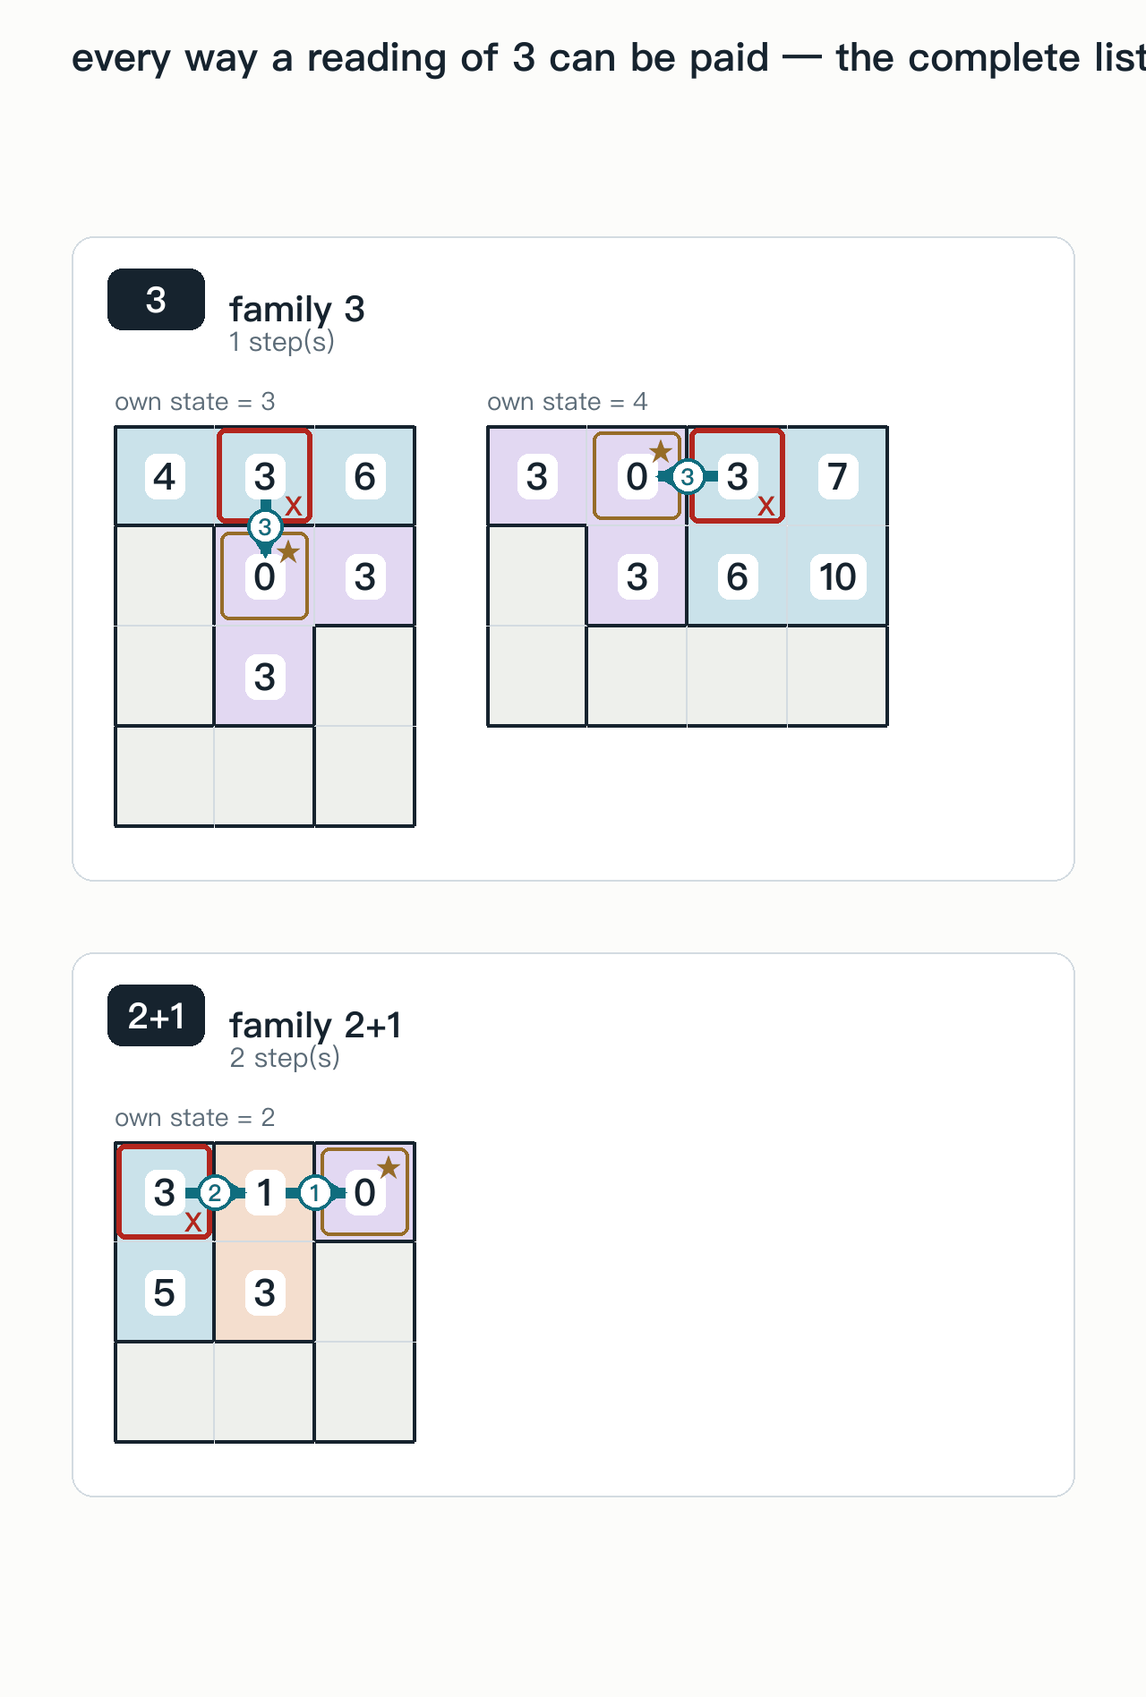
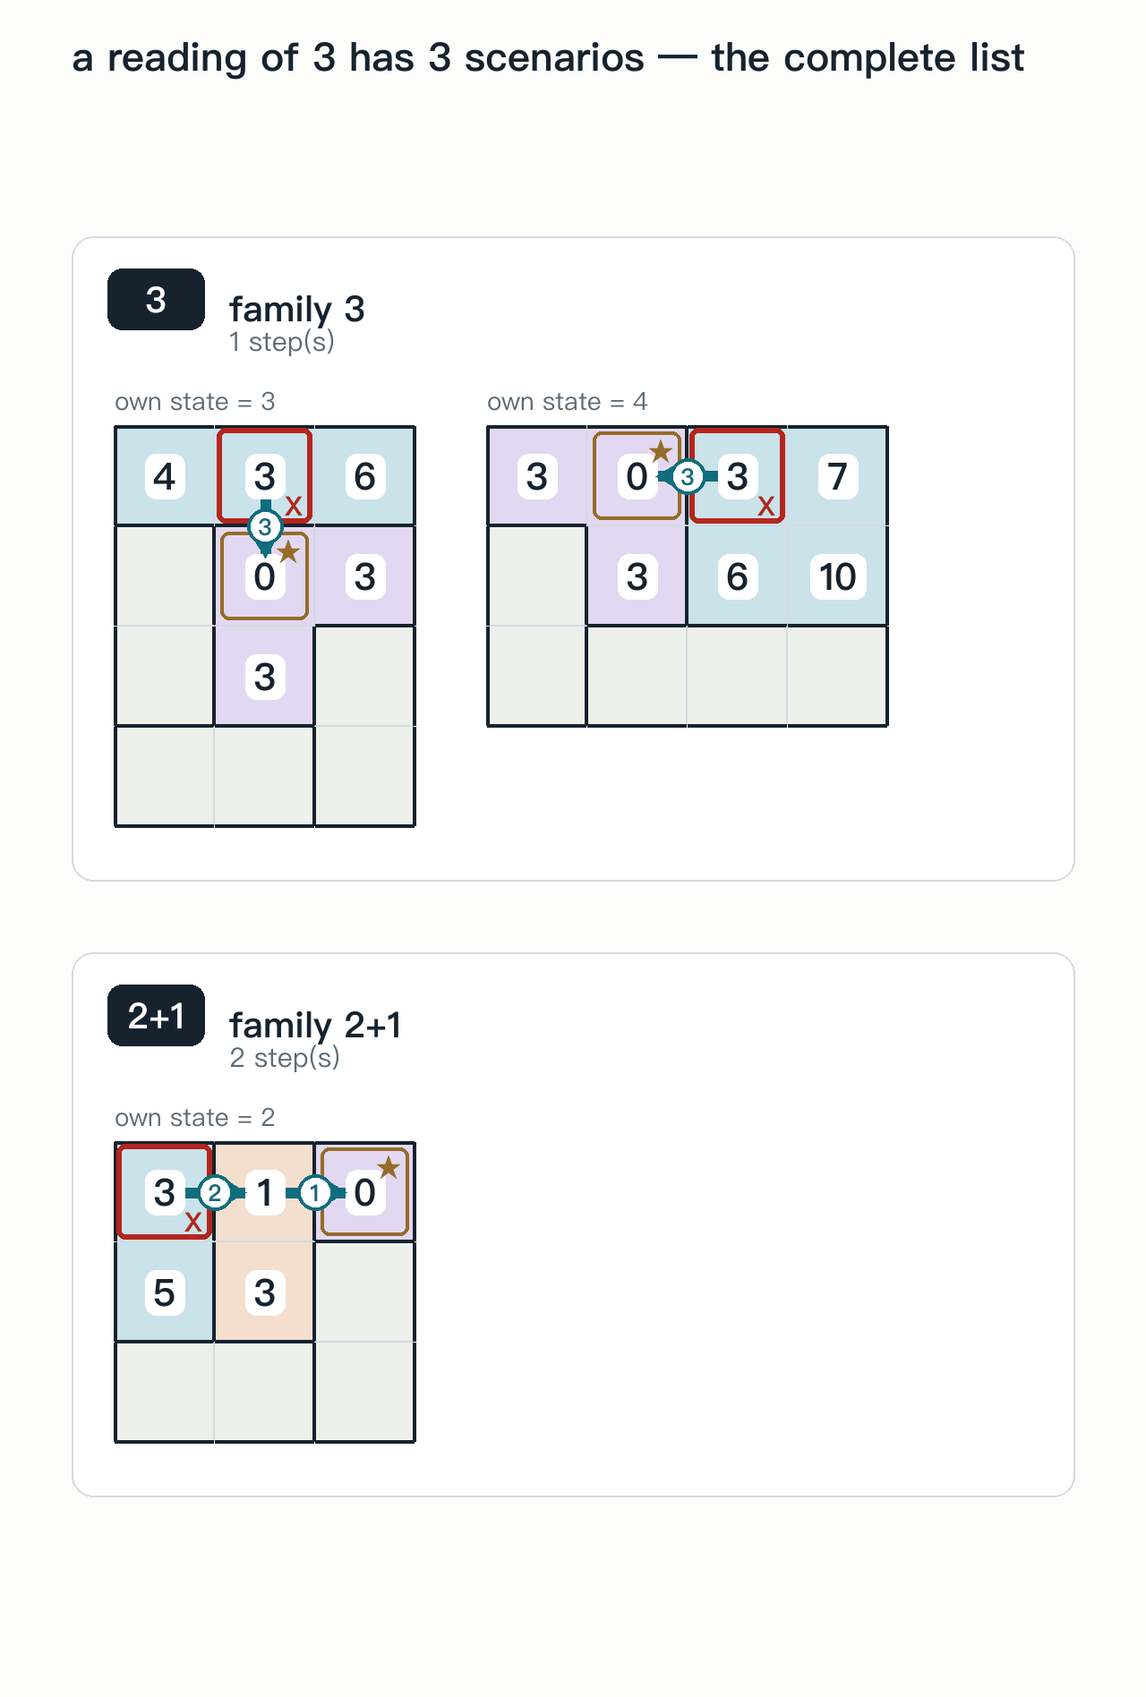
page: the number of scenarios, so a reader can hold it in their head
How many scenarios a reading has is the thing worth remembering, so it is now
on the page (a count on every card) and on the picture itself ("a reading of 4
has 3 scenarios -- the complete list").

Changed region(s): [[0.0625, 0.0311, 1.0, 0.0622]]

diff --git a/its-a-metric-too/lemma.html b/its-a-metric-too/lemma.html
@@ -50,6 +50,7 @@ a { color: var(--accent); }
 .lemma .lp { font-size: 0.74rem; color: var(--muted); }
 .lemma .lp.pin { color: var(--good); }
 .lemma .lp.ok { color: var(--accent); font-weight: 600; }
+.lemma .lp.n { color: var(--ink); font-weight: 600; }
 .lemma img { max-width: 100%; height: auto; width: auto; display: block;
   border: 1px solid var(--line); border-radius: 3px; background: #fcfcf9; }
 .lemma a.fig { display: inline-block; max-width: 100%; line-height: 0; }
@@ -78,55 +79,55 @@ a { color: var(--accent); }
 
   <section class="lemmas">
     <figure class="lemma">
-      <figcaption><b data-i18n="lemmaWord">Reading</b> 0 <span class="lp" data-i18n="lemmaFree">does not pin the square's own state size</span> <span class="lp ok" data-i18n="lemmaComplete">complete</span></figcaption>
+      <figcaption><b data-i18n="lemmaWord">Reading</b> 0 <span class="lp n" data-i18n="lemmaScen0">3 scenarios</span> <span class="lp" data-i18n="lemmaFree">does not pin the square's own state size</span> <span class="lp ok" data-i18n="lemmaComplete">complete</span></figcaption>
       <a class="fig" data-i18n-href="reading-scenarios/reading-0.en.png" href="reading-scenarios/reading-0.en.png" target="_blank" rel="noopener"><img src="reading-scenarios/reading-0.en.png" alt="Reading 0: the square that reads 0, and the states it can sit in" data-i18n-src="figSrc0" data-i18n-alt="figAlt0" loading="lazy"></a>
       <p class="lnote" data-i18n="lemmaRead0">The square IS a capitol, and its state's size is odd (1, 3, 5, …) — the lower bound is 1, not 3.</p>
       <p class="lfam"><span data-i18n="lemmaFamsNone">the only case</span></p>
     </figure>
     <figure class="lemma">
-      <figcaption><b data-i18n="lemmaWord">Reading</b> 1 <span class="lp" data-i18n="lemmaFree">does not pin the square's own state size</span> <span class="lp ok" data-i18n="lemmaComplete">complete</span></figcaption>
+      <figcaption><b data-i18n="lemmaWord">Reading</b> 1 <span class="lp n" data-i18n="lemmaScen1">2 scenarios</span> <span class="lp" data-i18n="lemmaFree">does not pin the square's own state size</span> <span class="lp ok" data-i18n="lemmaComplete">complete</span></figcaption>
       <a class="fig" data-i18n-href="reading-scenarios/reading-1.en.png" href="reading-scenarios/reading-1.en.png" target="_blank" rel="noopener"><img src="reading-scenarios/reading-1.en.png" alt="Reading 1: a step of cost 1 into a 1x1 state" data-i18n-src="figSrc1" data-i18n-alt="figAlt1" loading="lazy"></a>
       <p class="lnote" data-i18n="lemmaRead1">The square touches a 1×1 state and is not a capitol itself. An equivalence, not just an implication.</p>
       <p class="lfam"><span data-i18n="lemmaFamsWord">all the ways it can be paid</span>: 1</p>
     </figure>
     <figure class="lemma">
-      <figcaption><b data-i18n="lemmaWord">Reading</b> 2 <span class="lp pin" data-i18n="lemmaPin">pins the square's own state size</span> <span class="lp ok" data-i18n="lemmaComplete">complete</span></figcaption>
+      <figcaption><b data-i18n="lemmaWord">Reading</b> 2 <span class="lp n" data-i18n="lemmaScen2">1 scenario</span> <span class="lp pin" data-i18n="lemmaPin">pins the square's own state size</span> <span class="lp ok" data-i18n="lemmaComplete">complete</span></figcaption>
       <a class="fig" data-i18n-href="reading-scenarios/reading-2.en.png" href="reading-scenarios/reading-2.en.png" target="_blank" rel="noopener"><img src="reading-scenarios/reading-2.en.png" alt="Reading 2: a 2-cell state next to a capitol" data-i18n-src="figSrc2" data-i18n-alt="figAlt2" loading="lazy"></a>
       <p class="lnote" data-i18n="lemmaRead2">The square is in a 2-cell state, next to a capitol of odd size ≥ 3. This is the only reading that pins the square's own state.</p>
       <p class="lfam"><span data-i18n="lemmaFamsWord">all the ways it can be paid</span>: 2</p>
     </figure>
     <figure class="lemma">
-      <figcaption><b data-i18n="lemmaWord">Reading</b> 3 <span class="lp" data-i18n="lemmaFree">does not pin the square's own state size</span> <span class="lp ok" data-i18n="lemmaComplete">complete</span></figcaption>
+      <figcaption><b data-i18n="lemmaWord">Reading</b> 3 <span class="lp n" data-i18n="lemmaScen3">3 scenarios</span> <span class="lp" data-i18n="lemmaFree">does not pin the square's own state size</span> <span class="lp ok" data-i18n="lemmaComplete">complete</span></figcaption>
       <a class="fig" data-i18n-href="reading-scenarios/reading-3.en.png" href="reading-scenarios/reading-3.en.png" target="_blank" rel="noopener"><img src="reading-scenarios/reading-3.en.png" alt="Reading 3: one step of cost 3, and two steps of 2 then 1" data-i18n-src="figSrc3" data-i18n-alt="figAlt3" loading="lazy"></a>
       <p class="lnote" data-i18n="lemmaRead3">Two families: one step of cost 3, or 2+1 into a 1×1. The own state is not pinned, so "reading 3 ⇒ a 3-cell state" is false.</p>
       <p class="lfam"><span data-i18n="lemmaFamsWord">all the ways it can be paid</span>: 2+1 · 3</p>
     </figure>
     <figure class="lemma">
-      <figcaption><b data-i18n="lemmaWord">Reading</b> 4 <span class="lp" data-i18n="lemmaFree">does not pin the square's own state size</span> <span class="lp ok" data-i18n="lemmaComplete">complete</span></figcaption>
+      <figcaption><b data-i18n="lemmaWord">Reading</b> 4 <span class="lp n" data-i18n="lemmaScen4">3 scenarios</span> <span class="lp" data-i18n="lemmaFree">does not pin the square's own state size</span> <span class="lp ok" data-i18n="lemmaComplete">complete</span></figcaption>
       <a class="fig" data-i18n-href="reading-scenarios/reading-4.en.png" href="reading-scenarios/reading-4.en.png" target="_blank" rel="noopener"><img src="reading-scenarios/reading-4.en.png" alt="Reading 4: the three ways a reading of 4 can be paid" data-i18n-src="figSrc4" data-i18n-alt="figAlt4" loading="lazy"></a>
       <p class="lnote" data-i18n="lemmaRead4">Three families: 4, 3+1, 2+2. Only the one-step family pins the own state, at 4.</p>
       <p class="lfam"><span data-i18n="lemmaFamsWord">all the ways it can be paid</span>: 2+2 · 3+1 · 4</p>
     </figure>
     <figure class="lemma">
-      <figcaption><b data-i18n="lemmaWord">Reading</b> 5 <span class="lp" data-i18n="lemmaFree">does not pin the square's own state size</span> <span class="lp ok" data-i18n="lemmaComplete">complete</span></figcaption>
+      <figcaption><b data-i18n="lemmaWord">Reading</b> 5 <span class="lp n" data-i18n="lemmaScen5">4 scenarios</span> <span class="lp" data-i18n="lemmaFree">does not pin the square's own state size</span> <span class="lp ok" data-i18n="lemmaComplete">complete</span></figcaption>
       <a class="fig" data-i18n-href="reading-scenarios/reading-5.en.png" href="reading-scenarios/reading-5.en.png" target="_blank" rel="noopener"><img src="reading-scenarios/reading-5.en.png" alt="Reading 5: the four ways a reading of 5 can be paid" data-i18n-src="figSrc5" data-i18n-alt="figAlt5" loading="lazy"></a>
       <p class="lnote" data-i18n="lemmaRead5">Four families: 5, 4+1, 2+3, 2+2+1. The own state is not pinned.</p>
       <p class="lfam"><span data-i18n="lemmaFamsWord">all the ways it can be paid</span>: 2+2+1 · 2+3 · 4+1 · 5</p>
     </figure>
     <figure class="lemma">
-      <figcaption><b data-i18n="lemmaWord">Reading</b> 6 <span class="lp" data-i18n="lemmaFree">does not pin the square's own state size</span> <span class="lp ok" data-i18n="lemmaComplete">complete</span></figcaption>
+      <figcaption><b data-i18n="lemmaWord">Reading</b> 6 <span class="lp n" data-i18n="lemmaScen6">7 scenarios</span> <span class="lp" data-i18n="lemmaFree">does not pin the square's own state size</span> <span class="lp ok" data-i18n="lemmaComplete">complete</span></figcaption>
       <a class="fig" data-i18n-href="reading-scenarios/reading-6.en.png" href="reading-scenarios/reading-6.en.png" target="_blank" rel="noopener"><img src="reading-scenarios/reading-6.en.png" alt="Reading 6: the seven ways a reading of 6 can be paid" data-i18n-src="figSrc6" data-i18n-alt="figAlt6" loading="lazy"></a>
       <p class="lnote" data-i18n="lemmaRead6">Seven families. The own state is not pinned.</p>
       <p class="lfam"><span data-i18n="lemmaFamsWord">all the ways it can be paid</span>: 2+2+2 · 2+3+1 · 2+4 · 3+2+1 · 3+3 · 5+1 · 6</p>
     </figure>
     <figure class="lemma">
-      <figcaption><b data-i18n="lemmaWord">Reading</b> 7 <span class="lp" data-i18n="lemmaFree">does not pin the square's own state size</span> <span class="lp ok" data-i18n="lemmaComplete">complete</span></figcaption>
+      <figcaption><b data-i18n="lemmaWord">Reading</b> 7 <span class="lp n" data-i18n="lemmaScen7">11 scenarios</span> <span class="lp" data-i18n="lemmaFree">does not pin the square's own state size</span> <span class="lp ok" data-i18n="lemmaComplete">complete</span></figcaption>
       <a class="fig" data-i18n-href="reading-scenarios/reading-7.en.png" href="reading-scenarios/reading-7.en.png" target="_blank" rel="noopener"><img src="reading-scenarios/reading-7.en.png" alt="Reading 7: the eleven ways a reading of 7 can be paid" data-i18n-src="figSrc7" data-i18n-alt="figAlt7" loading="lazy"></a>
       <p class="lnote" data-i18n="lemmaRead7">Eleven families. The own state is not pinned.</p>
       <p class="lfam"><span data-i18n="lemmaFamsWord">all the ways it can be paid</span>: 2+2+2+1 · 2+2+3 · 2+4+1 · 2+5 · 3+2+2 · 3+3+1 · 3+4 · 4+2+1 · 4+3 · 6+1 · 7</p>
     </figure>
     <figure class="lemma">
-      <figcaption><b data-i18n="lemmaWord">Reading</b> 8 <span class="lp" data-i18n="lemmaFree">does not pin the square's own state size</span> <span class="lp ok" data-i18n="lemmaComplete">complete</span></figcaption>
+      <figcaption><b data-i18n="lemmaWord">Reading</b> 8 <span class="lp n" data-i18n="lemmaScen8">17 scenarios</span> <span class="lp" data-i18n="lemmaFree">does not pin the square's own state size</span> <span class="lp ok" data-i18n="lemmaComplete">complete</span></figcaption>
       <a class="fig" data-i18n-href="reading-scenarios/reading-8.en.png" href="reading-scenarios/reading-8.en.png" target="_blank" rel="noopener"><img src="reading-scenarios/reading-8.en.png" alt="Reading 8: the seventeen ways a reading of 8 can be paid" data-i18n-src="figSrc8" data-i18n-alt="figAlt8" loading="lazy"></a>
       <p class="lnote" data-i18n="lemmaRead8">Seventeen families. The own state is not pinned.</p>
       <p class="lfam"><span data-i18n="lemmaFamsWord">all the ways it can be paid</span>: 2+2+2+2 · 2+2+3+1 · 2+2+4 · 2+3+2+1 · 2+3+3 · 2+5+1 · 2+6 · 3+2+2+1 · 3+4+1 · 3+5 · 4+2+2 · 4+3+1 · 4+4 · 5+2+1 · 5+3 · 7+1 · 8</p>
@@ -368,6 +369,15 @@ const I18N = {
   lemmaWord: 'Reading',
   lemmaFamsWord: 'all the ways it can be paid',
   lemmaComplete: 'complete',
+  lemmaScen0: '3 scenarios',
+  lemmaScen1: '2 scenarios',
+  lemmaScen2: '1 scenario',
+  lemmaScen3: '3 scenarios',
+  lemmaScen4: '3 scenarios',
+  lemmaScen5: '4 scenarios',
+  lemmaScen6: '7 scenarios',
+  lemmaScen7: '11 scenarios',
+  lemmaScen8: '17 scenarios',
   lemmaFamsNone: 'the only case',
   lemmaPin: 'pins the square\'s own state size',
   lemmaFree: 'does not pin the square\'s own state size',

diff --git a/its-a-metric-too/lemma.zh.html b/its-a-metric-too/lemma.zh.html
@@ -50,6 +50,7 @@ a { color: var(--accent); }
 .lemma .lp { font-size: 0.74rem; color: var(--muted); }
 .lemma .lp.pin { color: var(--good); }
 .lemma .lp.ok { color: var(--accent); font-weight: 600; }
+.lemma .lp.n { color: var(--ink); font-weight: 600; }
 .lemma img { max-width: 100%; height: auto; width: auto; display: block;
   border: 1px solid var(--line); border-radius: 3px; background: #fcfcf9; }
 .lemma a.fig { display: inline-block; max-width: 100%; line-height: 0; }
@@ -78,55 +79,55 @@ a { color: var(--accent); }
 
   <section class="lemmas">
     <figure class="lemma">
-      <figcaption><b data-i18n="lemmaWord">读数</b> 0 <span class="lp" data-i18n="lemmaFree">不钉死这一格的州大小</span> <span class="lp ok" data-i18n="lemmaComplete">完整</span></figcaption>
+      <figcaption><b data-i18n="lemmaWord">读数</b> 0 <span class="lp n" data-i18n="lemmaScen0">3 种情形</span> <span class="lp" data-i18n="lemmaFree">不钉死这一格的州大小</span> <span class="lp ok" data-i18n="lemmaComplete">完整</span></figcaption>
       <a class="fig" data-i18n-href="reading-scenarios/reading-0.zh.png" href="reading-scenarios/reading-0.zh.png" target="_blank" rel="noopener"><img src="reading-scenarios/reading-0.zh.png" alt="读数 0：读 0 的那一格，以及它可能所在的州" data-i18n-src="figSrc0" data-i18n-alt="figAlt0" loading="lazy"></a>
       <p class="lnote" data-i18n="lemmaRead0">这一格就是首府，而且所在州的大小是奇数（1、3、5……）—— 下界是 1，不是 3。</p>
       <p class="lfam"><span data-i18n="lemmaFamsNone">只有这一种情形</span></p>
     </figure>
     <figure class="lemma">
-      <figcaption><b data-i18n="lemmaWord">读数</b> 1 <span class="lp" data-i18n="lemmaFree">不钉死这一格的州大小</span> <span class="lp ok" data-i18n="lemmaComplete">完整</span></figcaption>
+      <figcaption><b data-i18n="lemmaWord">读数</b> 1 <span class="lp n" data-i18n="lemmaScen1">2 种情形</span> <span class="lp" data-i18n="lemmaFree">不钉死这一格的州大小</span> <span class="lp ok" data-i18n="lemmaComplete">完整</span></figcaption>
       <a class="fig" data-i18n-href="reading-scenarios/reading-1.zh.png" href="reading-scenarios/reading-1.zh.png" target="_blank" rel="noopener"><img src="reading-scenarios/reading-1.zh.png" alt="读数 1：一步代价 1 进 1×1 州" data-i18n-src="figSrc1" data-i18n-alt="figAlt1" loading="lazy"></a>
       <p class="lnote" data-i18n="lemmaRead1">这一格挨着一个 1×1 州，且自己不是首府。是等价替换，不只是单向。</p>
       <p class="lfam"><span data-i18n="lemmaFamsWord">全部的付法</span>: 1</p>
     </figure>
     <figure class="lemma">
-      <figcaption><b data-i18n="lemmaWord">读数</b> 2 <span class="lp pin" data-i18n="lemmaPin">钉死这一格的州大小</span> <span class="lp ok" data-i18n="lemmaComplete">完整</span></figcaption>
+      <figcaption><b data-i18n="lemmaWord">读数</b> 2 <span class="lp n" data-i18n="lemmaScen2">1 种情形</span> <span class="lp pin" data-i18n="lemmaPin">钉死这一格的州大小</span> <span class="lp ok" data-i18n="lemmaComplete">完整</span></figcaption>
       <a class="fig" data-i18n-href="reading-scenarios/reading-2.zh.png" href="reading-scenarios/reading-2.zh.png" target="_blank" rel="noopener"><img src="reading-scenarios/reading-2.zh.png" alt="读数 2：挨着首府的 2 格州" data-i18n-src="figSrc2" data-i18n-alt="figAlt2" loading="lazy"></a>
       <p class="lnote" data-i18n="lemmaRead2">这一格在 2 格州里，且紧挨着一个奇数 ≥ 3 的首府。这是唯一钉死这一格州大小的读数。</p>
       <p class="lfam"><span data-i18n="lemmaFamsWord">全部的付法</span>: 2</p>
     </figure>
     <figure class="lemma">
-      <figcaption><b data-i18n="lemmaWord">读数</b> 3 <span class="lp" data-i18n="lemmaFree">不钉死这一格的州大小</span> <span class="lp ok" data-i18n="lemmaComplete">完整</span></figcaption>
+      <figcaption><b data-i18n="lemmaWord">读数</b> 3 <span class="lp n" data-i18n="lemmaScen3">3 种情形</span> <span class="lp" data-i18n="lemmaFree">不钉死这一格的州大小</span> <span class="lp ok" data-i18n="lemmaComplete">完整</span></figcaption>
       <a class="fig" data-i18n-href="reading-scenarios/reading-3.zh.png" href="reading-scenarios/reading-3.zh.png" target="_blank" rel="noopener"><img src="reading-scenarios/reading-3.zh.png" alt="读数 3：一步付 3，以及两步 2 再 1" data-i18n-src="figSrc3" data-i18n-alt="figAlt3" loading="lazy"></a>
       <p class="lnote" data-i18n="lemmaRead3">两族：一步付 3，或 2+1 进 1×1。州大小不钉死，所以「读 3 就是 3 格州」是错的。</p>
       <p class="lfam"><span data-i18n="lemmaFamsWord">全部的付法</span>: 2+1 · 3</p>
     </figure>
     <figure class="lemma">
-      <figcaption><b data-i18n="lemmaWord">读数</b> 4 <span class="lp" data-i18n="lemmaFree">不钉死这一格的州大小</span> <span class="lp ok" data-i18n="lemmaComplete">完整</span></figcaption>
+      <figcaption><b data-i18n="lemmaWord">读数</b> 4 <span class="lp n" data-i18n="lemmaScen4">3 种情形</span> <span class="lp" data-i18n="lemmaFree">不钉死这一格的州大小</span> <span class="lp ok" data-i18n="lemmaComplete">完整</span></figcaption>
       <a class="fig" data-i18n-href="reading-scenarios/reading-4.zh.png" href="reading-scenarios/reading-4.zh.png" target="_blank" rel="noopener"><img src="reading-scenarios/reading-4.zh.png" alt="读数 4：读 4 的三种付法" data-i18n-src="figSrc4" data-i18n-alt="figAlt4" loading="lazy"></a>
       <p class="lnote" data-i18n="lemmaRead4">三族：4、3+1、2+2。只有一步那一族钉死州大小，钉在 4。</p>
       <p class="lfam"><span data-i18n="lemmaFamsWord">全部的付法</span>: 2+2 · 3+1 · 4</p>
     </figure>
     <figure class="lemma">
-      <figcaption><b data-i18n="lemmaWord">读数</b> 5 <span class="lp" data-i18n="lemmaFree">不钉死这一格的州大小</span> <span class="lp ok" data-i18n="lemmaComplete">完整</span></figcaption>
+      <figcaption><b data-i18n="lemmaWord">读数</b> 5 <span class="lp n" data-i18n="lemmaScen5">4 种情形</span> <span class="lp" data-i18n="lemmaFree">不钉死这一格的州大小</span> <span class="lp ok" data-i18n="lemmaComplete">完整</span></figcaption>
       <a class="fig" data-i18n-href="reading-scenarios/reading-5.zh.png" href="reading-scenarios/reading-5.zh.png" target="_blank" rel="noopener"><img src="reading-scenarios/reading-5.zh.png" alt="读数 5：读 5 的四种付法" data-i18n-src="figSrc5" data-i18n-alt="figAlt5" loading="lazy"></a>
       <p class="lnote" data-i18n="lemmaRead5">四族：5、4+1、2+3、2+2+1。州大小不钉死。</p>
       <p class="lfam"><span data-i18n="lemmaFamsWord">全部的付法</span>: 2+2+1 · 2+3 · 4+1 · 5</p>
     </figure>
     <figure class="lemma">
-      <figcaption><b data-i18n="lemmaWord">读数</b> 6 <span class="lp" data-i18n="lemmaFree">不钉死这一格的州大小</span> <span class="lp ok" data-i18n="lemmaComplete">完整</span></figcaption>
+      <figcaption><b data-i18n="lemmaWord">读数</b> 6 <span class="lp n" data-i18n="lemmaScen6">7 种情形</span> <span class="lp" data-i18n="lemmaFree">不钉死这一格的州大小</span> <span class="lp ok" data-i18n="lemmaComplete">完整</span></figcaption>
       <a class="fig" data-i18n-href="reading-scenarios/reading-6.zh.png" href="reading-scenarios/reading-6.zh.png" target="_blank" rel="noopener"><img src="reading-scenarios/reading-6.zh.png" alt="读数 6：读 6 的七种付法" data-i18n-src="figSrc6" data-i18n-alt="figAlt6" loading="lazy"></a>
       <p class="lnote" data-i18n="lemmaRead6">七族。州大小不钉死。</p>
       <p class="lfam"><span data-i18n="lemmaFamsWord">全部的付法</span>: 2+2+2 · 2+3+1 · 2+4 · 3+2+1 · 3+3 · 5+1 · 6</p>
     </figure>
     <figure class="lemma">
-      <figcaption><b data-i18n="lemmaWord">读数</b> 7 <span class="lp" data-i18n="lemmaFree">不钉死这一格的州大小</span> <span class="lp ok" data-i18n="lemmaComplete">完整</span></figcaption>
+      <figcaption><b data-i18n="lemmaWord">读数</b> 7 <span class="lp n" data-i18n="lemmaScen7">11 种情形</span> <span class="lp" data-i18n="lemmaFree">不钉死这一格的州大小</span> <span class="lp ok" data-i18n="lemmaComplete">完整</span></figcaption>
       <a class="fig" data-i18n-href="reading-scenarios/reading-7.zh.png" href="reading-scenarios/reading-7.zh.png" target="_blank" rel="noopener"><img src="reading-scenarios/reading-7.zh.png" alt="读数 7：读 7 的十一种付法" data-i18n-src="figSrc7" data-i18n-alt="figAlt7" loading="lazy"></a>
       <p class="lnote" data-i18n="lemmaRead7">十一族。州大小不钉死。</p>
       <p class="lfam"><span data-i18n="lemmaFamsWord">全部的付法</span>: 2+2+2+1 · 2+2+3 · 2+4+1 · 2+5 · 3+2+2 · 3+3+1 · 3+4 · 4+2+1 · 4+3 · 6+1 · 7</p>
     </figure>
     <figure class="lemma">
-      <figcaption><b data-i18n="lemmaWord">读数</b> 8 <span class="lp" data-i18n="lemmaFree">不钉死这一格的州大小</span> <span class="lp ok" data-i18n="lemmaComplete">完整</span></figcaption>
+      <figcaption><b data-i18n="lemmaWord">读数</b> 8 <span class="lp n" data-i18n="lemmaScen8">17 种情形</span> <span class="lp" data-i18n="lemmaFree">不钉死这一格的州大小</span> <span class="lp ok" data-i18n="lemmaComplete">完整</span></figcaption>
       <a class="fig" data-i18n-href="reading-scenarios/reading-8.zh.png" href="reading-scenarios/reading-8.zh.png" target="_blank" rel="noopener"><img src="reading-scenarios/reading-8.zh.png" alt="读数 8：读 8 的十七种付法" data-i18n-src="figSrc8" data-i18n-alt="figAlt8" loading="lazy"></a>
       <p class="lnote" data-i18n="lemmaRead8">十七族。州大小不钉死。</p>
       <p class="lfam"><span data-i18n="lemmaFamsWord">全部的付法</span>: 2+2+2+2 · 2+2+3+1 · 2+2+4 · 2+3+2+1 · 2+3+3 · 2+5+1 · 2+6 · 3+2+2+1 · 3+4+1 · 3+5 · 4+2+2 · 4+3+1 · 4+4 · 5+2+1 · 5+3 · 7+1 · 8</p>
@@ -368,6 +369,15 @@ const I18N = {
   lemmaWord: '读数',
   lemmaFamsWord: '全部的付法',
   lemmaComplete: '完整',
+  lemmaScen0: '3 种情形',
+  lemmaScen1: '2 种情形',
+  lemmaScen2: '1 种情形',
+  lemmaScen3: '3 种情形',
+  lemmaScen4: '3 种情形',
+  lemmaScen5: '4 种情形',
+  lemmaScen6: '7 种情形',
+  lemmaScen7: '11 种情形',
+  lemmaScen8: '17 种情形',
   lemmaFamsNone: '只有这一种情形',
   lemmaPin: '钉死这一格的州大小',
   lemmaFree: '不钉死这一格的州大小',
